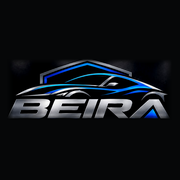
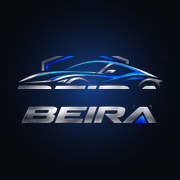
Adapta a app a iPhone, Android, tablet e computador; ícone próprio
Margens de segurança (notch, ilha dinâmica, furo da câmara, barra
inicial) passam por variáveis --sat/--sab/--sal/--sar, aplicadas em
retrato e em paisagem: laterais distintas esquerda/direita, barra de
separadores, folhas, visualizador de fotos e menu lateral do
computador. No telemóvel deitado o logótipo sai depois da animação
para o cartão de entrada caber no ecrã.

Ícone novo do ecrã inicial a partir do logótipo (carro + BEIRA sobre
azul), nos tamanhos 192/512, maskable 192/512, apple-touch e favicon.

Claude-Session: https://claude.ai/code/session_01GaZUx5sSxwB3UZtcLVXmAE

diff --git a/index.html b/index.html
@@ -48,6 +48,9 @@
   --tabbg:rgba(12,14,17,.94);
   --f-display:"Barlow Condensed","Arial Narrow",system-ui,sans-serif;
   --f-body:"Barlow",system-ui,-apple-system,"Segoe UI",sans-serif;
+  --sat:env(safe-area-inset-top,0px);--sab:env(safe-area-inset-bottom,0px);
+  --sal:env(safe-area-inset-left,0px);--sar:env(safe-area-inset-right,0px);
+  --safe-top:env(safe-area-inset-top,0px);
   color-scheme:dark;
 }
 @media (prefers-color-scheme: light){:root:not([data-theme="dark"]){
@@ -83,7 +86,7 @@ a,button,input,select,textarea,label,[data-act]{touch-action:manipulation}
 body{overscroll-behavior-y:none;-webkit-font-smoothing:antialiased}
 html,body{margin:0}
 body{background:var(--bg);color:var(--ink);font-family:var(--f-body);font-size:15px;line-height:1.4;-webkit-text-size-adjust:100%;
-  padding-left:max(16px,env(safe-area-inset-left,0px));padding-right:max(16px,env(safe-area-inset-right,0px));padding-block:0 104px}
+  padding-left:max(16px,var(--sal));padding-right:max(16px,var(--sar));padding-block:0 104px}
 button,input,select,textarea{font:inherit;color:inherit}
 button{cursor:pointer}
 a{color:inherit}
@@ -96,7 +99,7 @@ svg.i{width:20px;height:20px;flex:0 0 auto}
 svg.flip{transform:scaleY(-1)}
 
 /* cabeçalho de marca */
-.top{display:flex;align-items:center;gap:12px;padding-block:calc(14px + env(safe-area-inset-top,0px)) 12px}
+.top{display:flex;align-items:center;gap:12px;padding-block:calc(14px + var(--sat)) 12px}
 .logo{width:88px;height:44px;object-fit:contain;border-radius:8px;background:#000;display:block;border:1px solid var(--line)}
 .top .t{display:flex;flex-direction:column;min-width:0;line-height:1.05}
 .top .t b{font-family:var(--f-display);font-style:italic;font-weight:800;font-size:22px;letter-spacing:.03em;text-transform:uppercase;background:var(--chrome);-webkit-background-clip:text;background-clip:text;color:transparent}
@@ -354,7 +357,7 @@ textarea.in{min-height:96px;resize:vertical}
 
 /* folhas, visor, navegação */
 .scrim{position:fixed;top:0;right:0;bottom:0;left:0;background:rgba(0,0,0,.66);z-index:40;display:flex;align-items:flex-end;justify-content:center}
-.sheet{background:var(--surface);width:100%;max-width:560px;border-radius:20px 20px 0 0;padding:10px max(16px,env(safe-area-inset-left,0px)) calc(18px + env(safe-area-inset-bottom,0px));max-height:90vh;max-height:90dvh;overflow-y:auto;-webkit-overflow-scrolling:touch;overscroll-behavior:contain;border:1px solid var(--line);border-bottom:0}
+.sheet{background:var(--surface);width:100%;max-width:560px;border-radius:20px 20px 0 0;padding:10px max(16px,var(--sar)) calc(18px + var(--sab)) max(16px,var(--sal));max-height:90vh;max-height:90dvh;overflow-y:auto;-webkit-overflow-scrolling:touch;overscroll-behavior:contain;border:1px solid var(--line);border-bottom:0}
 .grab{width:40px;height:4px;border-radius:99px;background:var(--line);margin:0 auto 12px}
 .sheet h3{font-size:22px;margin-bottom:2px}
 .opt{display:flex;justify-content:space-between;align-items:center;width:100%;border:1px solid var(--line);background:var(--bg2);border-radius:12px;padding:13px;margin-top:8px;font-weight:600;min-height:50px;text-align:left}
@@ -372,10 +375,10 @@ textarea.in{min-height:96px;resize:vertical}
 .docv .r{text-align:right;white-space:nowrap}
 .docv .tot{display:flex;justify-content:space-between;font-weight:700;font-size:16px;padding-top:8px}
 .docv small{color:#666;display:block;margin-top:10px}
-.viewer{position:fixed;top:0;right:0;bottom:0;left:0;z-index:50;background:rgba(0,0,0,.95);display:flex;flex-direction:column;align-items:center;justify-content:center;gap:14px;padding:calc(16px + env(safe-area-inset-top,0px)) max(16px,env(safe-area-inset-right,0px)) calc(16px + env(safe-area-inset-bottom,0px)) max(16px,env(safe-area-inset-left,0px))}
+.viewer{position:fixed;top:0;right:0;bottom:0;left:0;z-index:50;background:rgba(0,0,0,.95);display:flex;flex-direction:column;align-items:center;justify-content:center;gap:14px;padding:calc(16px + var(--sat)) max(16px,var(--sar)) calc(16px + var(--sab)) max(16px,var(--sal))}
 .viewer img{max-width:100%;max-height:78vh;max-height:78dvh;border-radius:8px}
 .tabs{position:fixed;left:0;right:0;bottom:0;z-index:30;background:var(--tabbg);border-top:1px solid var(--line);-webkit-backdrop-filter:blur(12px);backdrop-filter:blur(12px);
-  padding:6px max(8px,env(safe-area-inset-left,0px)) calc(6px + env(safe-area-inset-bottom,0px))}
+  padding:6px max(8px,var(--sar)) calc(6px + var(--sab)) max(8px,var(--sal))}
 .tabs .in2{max-width:560px;margin:0 auto;display:grid;grid-template-columns:repeat(5,1fr);gap:2px;align-items:end}
 .tab{display:flex;flex-direction:column;align-items:center;gap:3px;border:0;background:none;padding:6px 0;font-size:11px;font-weight:600;color:var(--ink3);border-radius:10px;min-height:50px;position:relative}
 .tab[aria-current="page"]{color:var(--red2)}
@@ -384,7 +387,7 @@ textarea.in{min-height:96px;resize:vertical}
 .tab.new i{width:52px;height:44px;margin-top:-18px;display:grid;place-items:center;background:var(--grad);border-radius:14px;transform:skewX(-10deg);box-shadow:0 8px 20px rgba(30,120,255,.4)}
 .tab.new i svg{transform:skewX(10deg)}
 .tab.new span{color:var(--ink2)}
-.toast{position:fixed;left:50%;transform:translateX(-50%);bottom:calc(92px + env(safe-area-inset-bottom,0px));background:var(--ink);color:var(--bg);padding:10px 16px;border-radius:99px;font-weight:600;font-size:13.5px;z-index:60;max-width:90vw}
+.toast{position:fixed;left:50%;transform:translateX(-50%);bottom:calc(92px + var(--sab));max-width:min(90vw,520px);background:var(--ink);color:var(--bg);padding:10px 16px;border-radius:99px;font-weight:600;font-size:13.5px;z-index:60}
 
 /* toque: feedback imediato como numa app nativa */
 .btn,.os,.rowc,.tile,.stat,.chip,.opt,.pill,.thumb,.x,.act i,.tab,.ph>button,.grp .gh button{transition:transform .12s ease,opacity .12s ease,background-color .15s ease}
@@ -407,8 +410,8 @@ textarea.in{min-height:96px;resize:vertical}
 @keyframes sh{0%{background-position:200% 0}100%{background-position:-200% 0}}
 .sk{border-radius:14px;background:linear-gradient(90deg,var(--surface) 25%,var(--surface2) 50%,var(--surface) 75%);background-size:200% 100%;animation:sh 1.3s linear infinite;border:1px solid var(--line)}
 body.kb .tabs{display:none}
-.back{margin-top:env(safe-area-inset-top,0px)}
-.scrim{padding-top:env(safe-area-inset-top,0px)}
+.back{margin-top:var(--sat)}
+.scrim{padding-top:var(--sat)}
 body.kb{padding-bottom:24px}
 .install{display:flex;gap:12px;align-items:center;margin-top:14px}
 .install img{width:44px;height:44px;border-radius:10px;flex:0 0 auto}
@@ -420,7 +423,7 @@ body.kb{padding-bottom:24px}
 }
 
 /* login e equipa */
-.login{min-height:100vh;min-height:100dvh;display:flex;flex-direction:column;align-items:center;justify-content:center;gap:14px;text-align:center;padding:calc(24px + env(safe-area-inset-top,0px)) 0 calc(24px + env(safe-area-inset-bottom,0px))}
+.login{min-height:100svh;min-height:100dvh;display:flex;flex-direction:column;align-items:center;justify-content:center;gap:14px;text-align:center;padding:calc(24px + var(--sat)) max(0px,var(--sar)) calc(24px + var(--sab)) max(0px,var(--sal))}
 .login .llogo{width:150px;max-width:50%;border-radius:14px}
 .login h1{font-size:34px}
 .login p{margin:0}
@@ -487,9 +490,10 @@ body.lock #fx{display:block}
   .hero .kpis{grid-template-columns:repeat(4,1fr)}
 }
 @media (min-width:1024px){
-  body:not(.lock){padding-left:272px;padding-right:32px;padding-bottom:32px}
+  body:not(.lock){padding-left:calc(272px + var(--sal));padding-right:max(32px,var(--sar));padding-bottom:max(32px,var(--sab))}
   .app{max-width:1180px}
-  .tabs{top:0;right:auto;bottom:0;width:244px;border-top:0;border-right:1px solid var(--line);padding:22px 14px}
+  .tabs{top:0;right:auto;bottom:0;width:calc(244px + var(--sal));border-top:0;border-right:1px solid var(--line);
+    padding:calc(22px + var(--sat)) 14px calc(22px + var(--sab)) calc(14px + var(--sal));overflow-y:auto}
   .tabs .in2{display:flex!important;flex-direction:column;align-items:stretch;gap:6px;max-width:none;margin:0}
   .tab{flex-direction:row;justify-content:flex-start;gap:12px;padding:12px 16px;font-size:14.5px;min-height:48px;text-align:left}
   .tab:hover{background:var(--bg2);color:var(--ink)}
@@ -1876,7 +1880,8 @@ window.__wr={S:S,go:go};
 #intro{--surface:#13161A;--surface2:#1A1E23;--line:#262B32;--ink:#F3F4F6;--ink2:#9CA3AF;--ink3:#6B7280;--bad:#FF6B63;--red:#1E78FF;--grad:linear-gradient(135deg,#3FA0FF 0%,#1E78FF 45%,#0B52D6 100%);--chrome:linear-gradient(180deg,#FFFFFF 0%,#C9CDD2 100%);color:#F3F4F6;color-scheme:dark;position:fixed;inset:0;z-index:9999;background:#000;overflow:hidden;touch-action:manipulation;-webkit-user-select:none;user-select:none}
 #intro .in-bg{position:absolute;inset:0;background:radial-gradient(60% 45% at 50% 42%,rgba(30,120,255,.16),rgba(0,0,0,0) 70%);opacity:0}
 #intro .in-move{position:absolute;inset:0;display:flex;align-items:center;justify-content:center;will-change:transform}
-#intro .in-stage{position:relative;width:min(84vw,440px);will-change:filter}
+#intro .in-stage{position:relative;width:min(84vw,440px,168vh);will-change:filter}
+#intro .in-move{padding:calc(var(--sat) + 8px) max(12px,var(--sal)) calc(var(--sab) + 8px) max(12px,var(--sar));box-sizing:border-box}
 #intro .in-stage img{position:absolute;display:block;max-width:none;will-change:transform,opacity,filter;pointer-events:none;-webkit-user-drag:none}
 #intro .in-ring{position:absolute;left:50%;top:50%;width:140%;aspect-ratio:1;margin:-70% 0 0 -70%;border-radius:50%;background:radial-gradient(closest-side,rgba(120,190,255,.55),rgba(30,120,255,.18) 55%,rgba(30,120,255,0) 72%);opacity:0;transform:scale(.2);pointer-events:none}
 #intro .in-lines{position:absolute;inset:0;pointer-events:none;opacity:.7}
@@ -1888,7 +1893,7 @@ window.__wr={S:S,go:go};
 @keyframes wrDrawX{0%{transform:scaleX(0);opacity:0}60%{opacity:.95}100%{transform:scaleX(1);opacity:.7}}
 @keyframes wrDrawY{0%{transform:scaleY(0);opacity:0}60%{opacity:.95}100%{transform:scaleY(1);opacity:.7}}
 #intro canvas{position:absolute;inset:0;width:100%;height:100%;opacity:.5;mix-blend-mode:screen;pointer-events:none}
-#intro .in-login{position:absolute;left:0;right:0;bottom:0;overflow-y:auto;-webkit-overflow-scrolling:touch;display:flex;justify-content:center;padding:0 16px calc(env(safe-area-inset-bottom,0px) + 16px);opacity:0;visibility:hidden}
+#intro .in-login{position:absolute;left:0;right:0;bottom:0;overflow-y:auto;-webkit-overflow-scrolling:touch;display:flex;justify-content:center;padding:0 max(16px,var(--sar)) calc(var(--sab) + 16px) max(16px,var(--sal));opacity:0;visibility:hidden}
 #intro .in-card{width:100%;max-width:384px;margin:auto 0;border:1px solid #27272a;border-radius:14px;background:rgba(24,24,27,.72);-webkit-backdrop-filter:blur(10px);backdrop-filter:blur(10px);padding:20px 20px 16px;box-shadow:0 20px 50px rgba(0,0,0,.5)}
 #intro .in-card h2{font-size:24px;font-weight:800;margin:0;background:var(--chrome);-webkit-background-clip:text;background-clip:text;color:transparent}
 #intro .in-card .sub{margin:6px 0 16px;color:#a1a1aa;font-size:13.5px;line-height:1.35;font-family:var(--f-body)}
@@ -1914,8 +1919,15 @@ window.__wr={S:S,go:go};
 #intro .foot{margin-top:6px;text-align:center;color:#52525b;font:400 11px var(--f-body);letter-spacing:.06em}
 #intro .in-card.shake{animation:wrShake .4s}
 @keyframes wrShake{20%{transform:translateX(-10px)}40%{transform:translateX(9px)}60%{transform:translateX(-6px)}80%{transform:translateX(4px)}}
-#intro .in-skip{position:absolute;right:14px;top:calc(env(safe-area-inset-top,0px) + 12px);background:none;border:0;color:#71717a;font:500 12px var(--f-body);padding:8px;cursor:pointer;opacity:0}
+#intro .in-skip{position:absolute;right:calc(14px + var(--sar));top:calc(var(--sat) + 12px);background:none;border:0;color:#71717a;font:500 12px var(--f-body);padding:8px;cursor:pointer;opacity:0}
 @media (prefers-reduced-motion:reduce){#intro *{animation:none!important}}
+@media (orientation:landscape) and (max-height:560px){
+  #intro.golog .in-move{opacity:0;visibility:hidden;transition:opacity .35s}
+  #intro.golog .in-login{top:0!important;padding-top:calc(var(--sat) + 10px);align-items:flex-start}
+  #intro .in-card{padding:16px 18px 14px}
+  #intro .in-card h2{font-size:21px}
+  #intro .in-card .sub{margin:4px 0 12px}
+}
 #intro .in-login{overflow-y:auto;-webkit-overflow-scrolling:touch}
 #intro .demohint{margin-top:12px;font-size:12px;color:var(--ink2);text-align:left;border:1px dashed var(--line);border-radius:12px;padding:8px 10px;line-height:1.6}
 #intro .demohint a{color:#7DB2EE;text-decoration:none}#intro .demohint b{color:var(--ink)}
@@ -2025,7 +2037,7 @@ function finalState(){names.forEach(function(n){imgs[n].style.opacity="1"})}
 /* ---- transição logo -> login ---- */
 var transitioned=false;
 function toLogin(){
-  if(transitioned)return;transitioned=true;
+  if(transitioned)return;transitioned=true;root.classList.add("golog");
   var h=stage.getBoundingClientRect().height,vh=innerHeight;
   var sTop=(parseFloat(getComputedStyle(document.documentElement).getPropertyValue("--safe-top"))||0);
   var s=Math.min(.62,Math.max(.42,(vh*.2)/h));

diff --git a/README.md b/README.md
@@ -13,6 +13,12 @@ Sistema de gestão de ordens de serviço da Beira Premium Garage (Beira, Moçamb
 2. `firebase-config.js`: configuração do projeto Firebase da Beira + chave VAPID.
 3. Regras da base de dados: Firebase Console → Firestore → *Regras*: cole `firestore.rules` e publique.
 
+## Ecrãs e instalação
+
+Funciona em iPhone, Android, tablet e computador. O ecrã adapta-se: telemóvel com barra de separadores em baixo, tablet com duas colunas, computador com menu lateral. As margens de segurança do notch, da ilha dinâmica, do furo da câmara e da barra inicial são respeitadas em retrato e em paisagem (`env(safe-area-inset-*)`, nas variáveis `--sat/--sab/--sal/--sar`).
+
+Para instalar no ecrã inicial: no Android, menu do Chrome → *Instalar app*; no iPhone/iPad, *Partilhar* → *Adicionar ao ecrã inicial*. O ícone é o da Beira Premium Garage (`icon-192/512`, com versão *maskable* para o Android recortar sem cortar o carro).
+
 ## Avisos com a app fechada (push)
 
 Um robô gratuito do GitHub (Actions) corre de hora em hora, das 07h às 18h (Maputo), vê as O.S. na base de dados e envia push para os aparelhos registados. Avisa: entrega atrasada / hoje / amanhã, lembretes vencidos, viatura pronta há 2+ dias sem levantar, orçamento sem resposta há 2+ dias.
